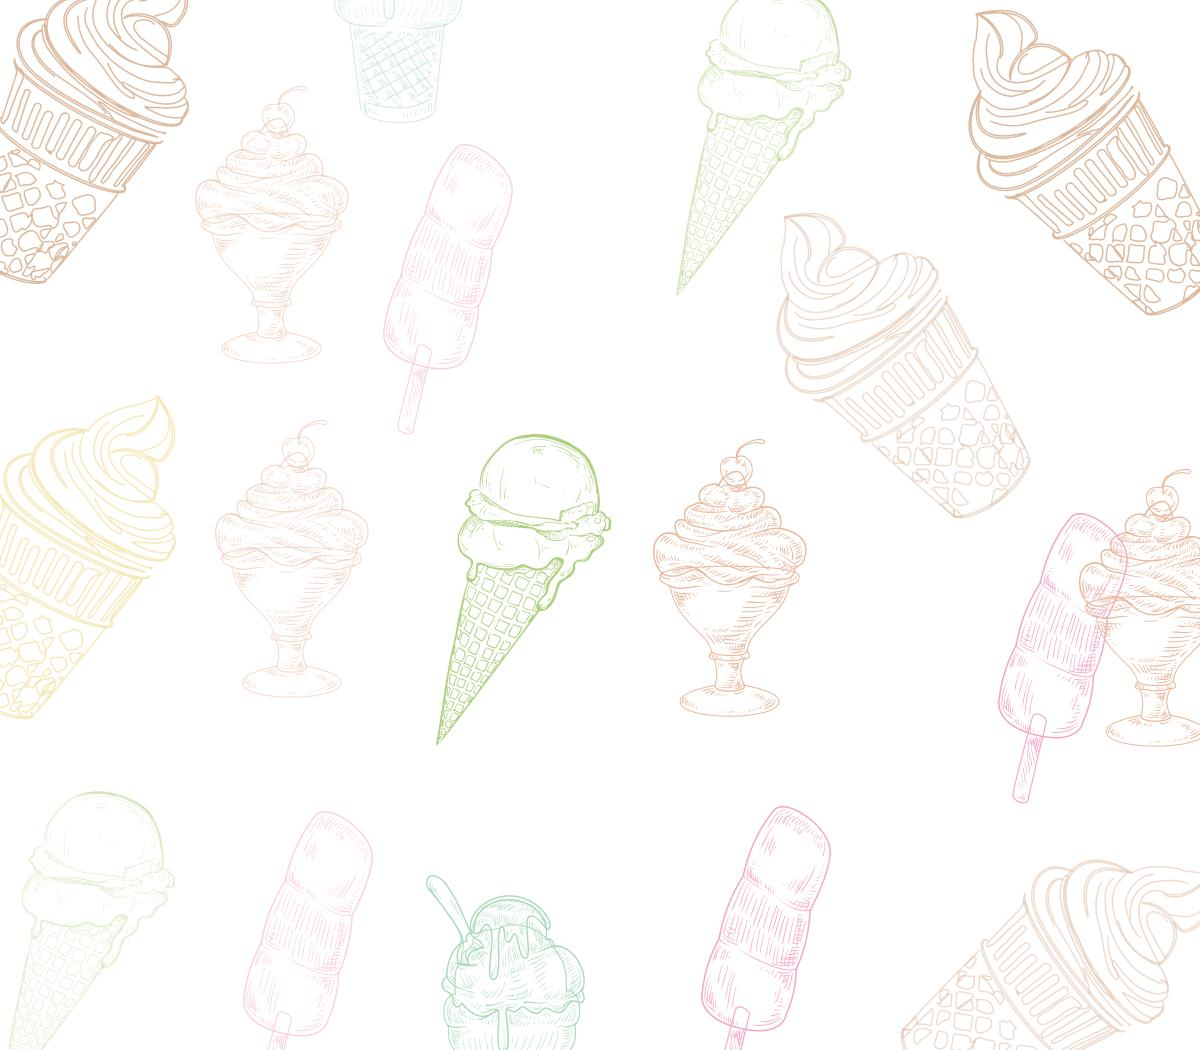
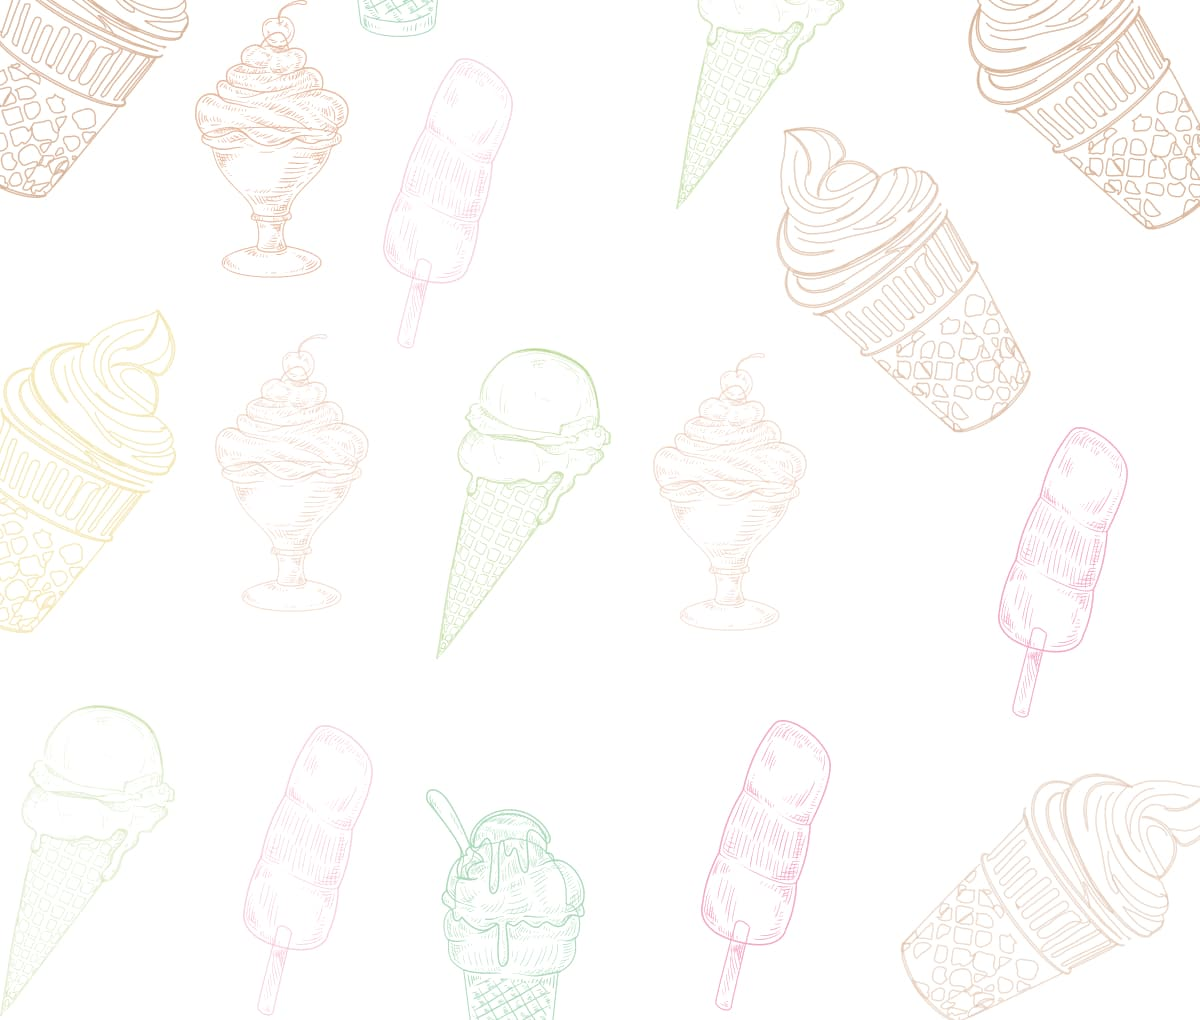
48

diff --git a/src/partials/slider.html b/src/partials/slider.html
@@ -112,13 +112,13 @@
           <picture>
             <source
               srcset="
-                ./images/slider/reviews/foto.jpg    1x,
-                ./images/slider/reviews/foto@2x.jpg 2x
+                ./images/slider/reviews/reviews-1.jpg    1x,
+                ./images/slider/reviews/reviews-1@2x.jpg 2x
               "
             />
             <img
               class="reviews__foto"
-              src="./images/slider/reviews/foto.jpg"
+              src="./images/slider/reviews/reviews-1.jpg"
               alt="Отзыв 1"
               width="85"
             />
@@ -135,21 +135,20 @@
           <picture>
             <source
               srcset="
-                ./images/slider/reviews/foto.jpg    1x,
-                ./images/slider/reviews/foto@2x.jpg 2x
+                ./images/slider/reviews/reviews-2.jpg    1x,
+                ./images/slider/reviews/reviews-2@2x.jpg 2x
               "
             />
             <img
               class="reviews__foto"
-              src="./images/slider/reviews/foto.jpg"
+              src="./images/slider/reviews/reviews-2.jpg"
               alt="Отзыв 2"
               width="85"
             />
           </picture>
           <p class="reviews__content">
-            I love visiting your cafe. You prepare the most delicious ice cream
-            in Los Angeles! In addition, you have beautiful serving, cozy
-            atmosphere and polite staff.
+            I love eating popsicles on a hot day. Yours is always delicious. I
+            recommend your cafe to everyone I know.
           </p>
           <p class="reviews__author">Emily, Los Angeles</p>
         </li>
@@ -158,21 +157,21 @@
           <picture>
             <source
               srcset="
-                ./images/slider/reviews/foto.jpg    1x,
-                ./images/slider/reviews/foto@2x.jpg 2x
+                ./images/slider/reviews/reviews-3.jpg    1x,
+                ./images/slider/reviews/reviews-3@2x.jpg 2x
               "
             />
             <img
               class="reviews__foto"
-              src="./images/slider/reviews/foto.jpg"
+              src="./images/slider/reviews/reviews-3.jpg"
               alt="Отзыв 3"
               width="85"
             />
           </picture>
           <p class="reviews__content">
-            I love visiting your cafe. You prepare the most delicious ice cream
-            in Los Angeles! In addition, you have beautiful serving, cozy
-            atmosphere and polite staff.
+            Ice cream is my passion! I love your chocolate hazelnut ice cream!
+            And I really like the excellent service - always served politely and
+            quickly!
           </p>
           <p class="reviews__author">Emily, Los Angeles</p>
         </li>

diff --git a/src/sass/_slider.scss b/src/sass/_slider.scss
@@ -1,8 +1,17 @@
 .slider {
   padding: 186px 0 375px 0;
-  background-image: url(../images/slider/slider/slider-bg-desk.jpg);
+
+  background-image: url(../images/slider/slider/slider-bg-mob.jpg);
+  background-position: center;
+  background-size: cover;
 
   position: relative;
+
+  @media screen and (min-device-pixel-ratio: 2),
+    screen and (min-resolution: 192dpi),
+    screen and (min-resolution: 2dppx) {
+    background-image: url(../images/slider/slider/slider-bg-mob@2x.jpg);
+  }
 
   @media screen and(min-width: 480px) {
     padding: 252px 0 382px 0;
@@ -10,10 +19,26 @@
 
   @media screen and(min-width: 768px) {
     padding: 223px 0 382px 0;
+
+    background-image: url(../images/slider/slider/slider-bg-tab.jpg);
+
+    @media screen and (min-device-pixel-ratio: 2),
+      screen and (min-resolution: 192dpi),
+      screen and (min-resolution: 2dppx) {
+      background-image: url(../images/slider/slider/slider-bg-tab@2x.jpg);
+    }
   }
 
   @media screen and(min-width: 1200px) {
     padding: 452px 0 206px 0;
+
+    background-image: url(../images/slider/slider/slider-bg-desk.jpg);
+
+    @media screen and (min-device-pixel-ratio: 2),
+      screen and (min-resolution: 192dpi),
+      screen and (min-resolution: 2dppx) {
+      background-image: url(../images/slider/slider/slider-bg-desk@2x.jpg);
+    }
   }
 }
 
@@ -48,6 +73,7 @@
 }
 
 .reviews__foto {
+  width: 84.9px;
   margin: 0 auto 32px auto;
   border-radius: 50%;
 
@@ -58,10 +84,10 @@
 
 .reviews__content {
   margin-bottom: 30px;
-  padding: 39px 109px;
+  padding: 34px 39px;
   color: $primary-text-color;
   background-color: $primary-bg-color;
-  font-weight: 500;
+  font-weight: 400;
   font-size: 12px;
   line-height: 2.55;
   text-align: center;
@@ -69,7 +95,15 @@
 
   @media screen and (min-width: 768px) {
     margin-bottom: 32px;
+    padding: 29px 80px;
+    font-weight: 500;
     font-size: 14px;
+    line-height: 1.86;
+  }
+
+  @media screen and (min-width: 1200px) {
+    padding: 39px 109px;
+    font-size: 16px;
   }
 }
 
@@ -78,14 +112,6 @@
   line-height: 1.86;
   text-align: center;
   color: $secondary-text-color;
-}
-
-.swiper {
-  // overflow: visible;
-}
-
-.swiper-pagination {
-  // bottom: -45 !important;
 }
 
 .swiper-pagination-bullet-active {

diff --git a/src/js/mobileMenu.js b/src/js/mobileMenu.js
@@ -1,0 +1,27 @@
+(() => {
+  const mobileMenu = document.querySelector('.js-menu-container');
+  const openMenuBtn = document.querySelector('.js-open-menu');
+  const closeMenuBtn = document.querySelector('.js-close-menu');
+  const toggleMenu = () => {
+    const isMenuOpen =
+      openMenuBtn.getAttribute('aria-expanded') === 'true' || false;
+    openMenuBtn.setAttribute('aria-expanded', !isMenuOpen);
+    mobileMenu.classList.toggle('is-open');
+
+    const scrollLockMethod = !isMenuOpen
+      ? 'disableBodyScroll'
+      : 'enableBodyScroll';
+    bodyScrollLock[scrollLockMethod](document.body);
+  };
+
+  openMenuBtn.addEventListener('click', toggleMenu);
+  closeMenuBtn.addEventListener('click', toggleMenu);
+
+  // Close the mobile menu on wider screens if the device orientation changes
+  window.matchMedia('(min-width: 768px)').addEventListener('change', e => {
+    if (!e.matches) return;
+    mobileMenu.classList.remove('is-open');
+    openMenuBtn.setAttribute('aria-expanded', false);
+    bodyScrollLock.enableBodyScroll(document.body);
+  });
+})();

diff --git a/src/index.js b/src/index.js
@@ -1,2 +1,3 @@
 import './js/modalByNow.js';
 import './js/slider.js';
+import './js/mobileMenu.js';
